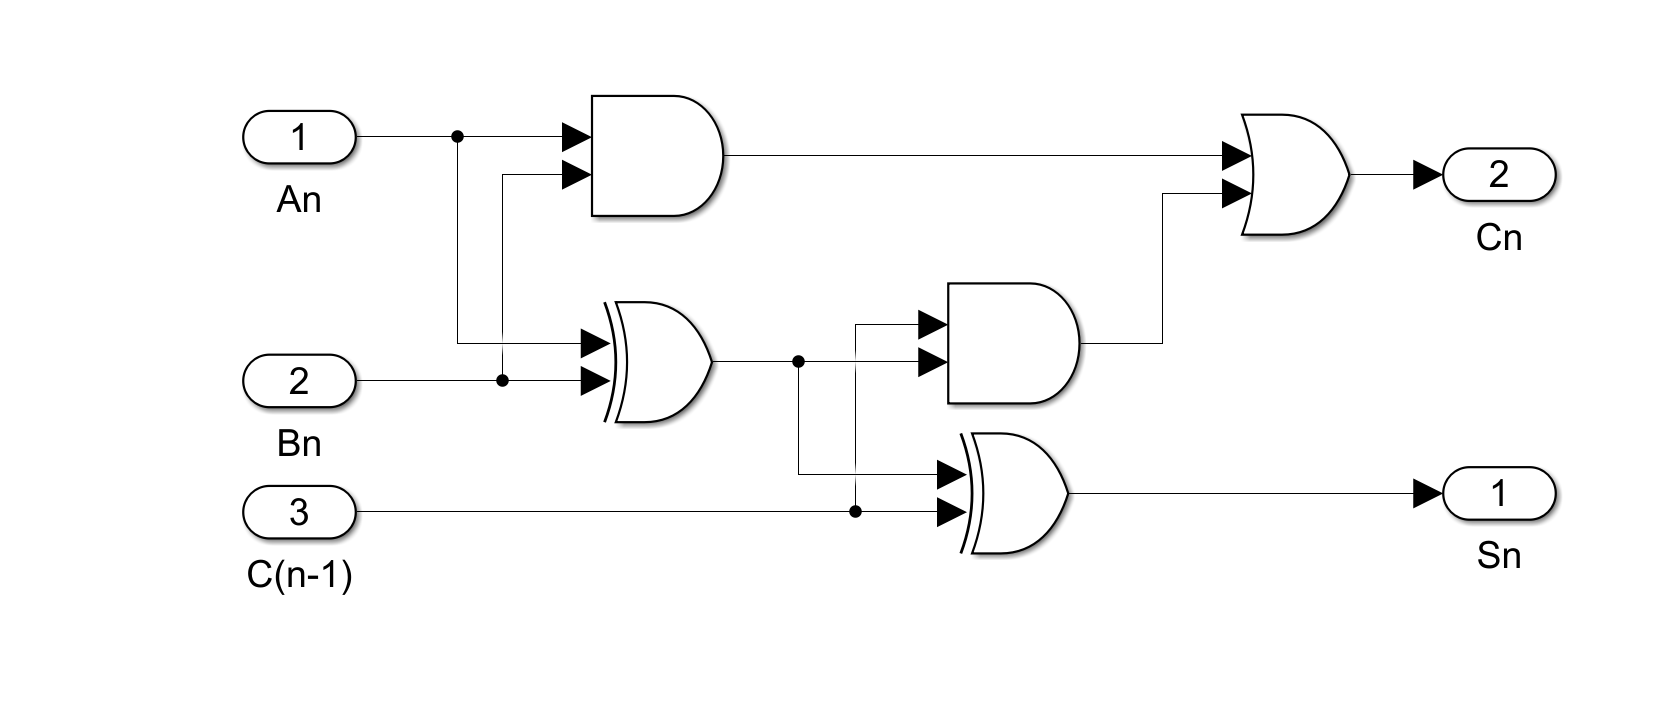
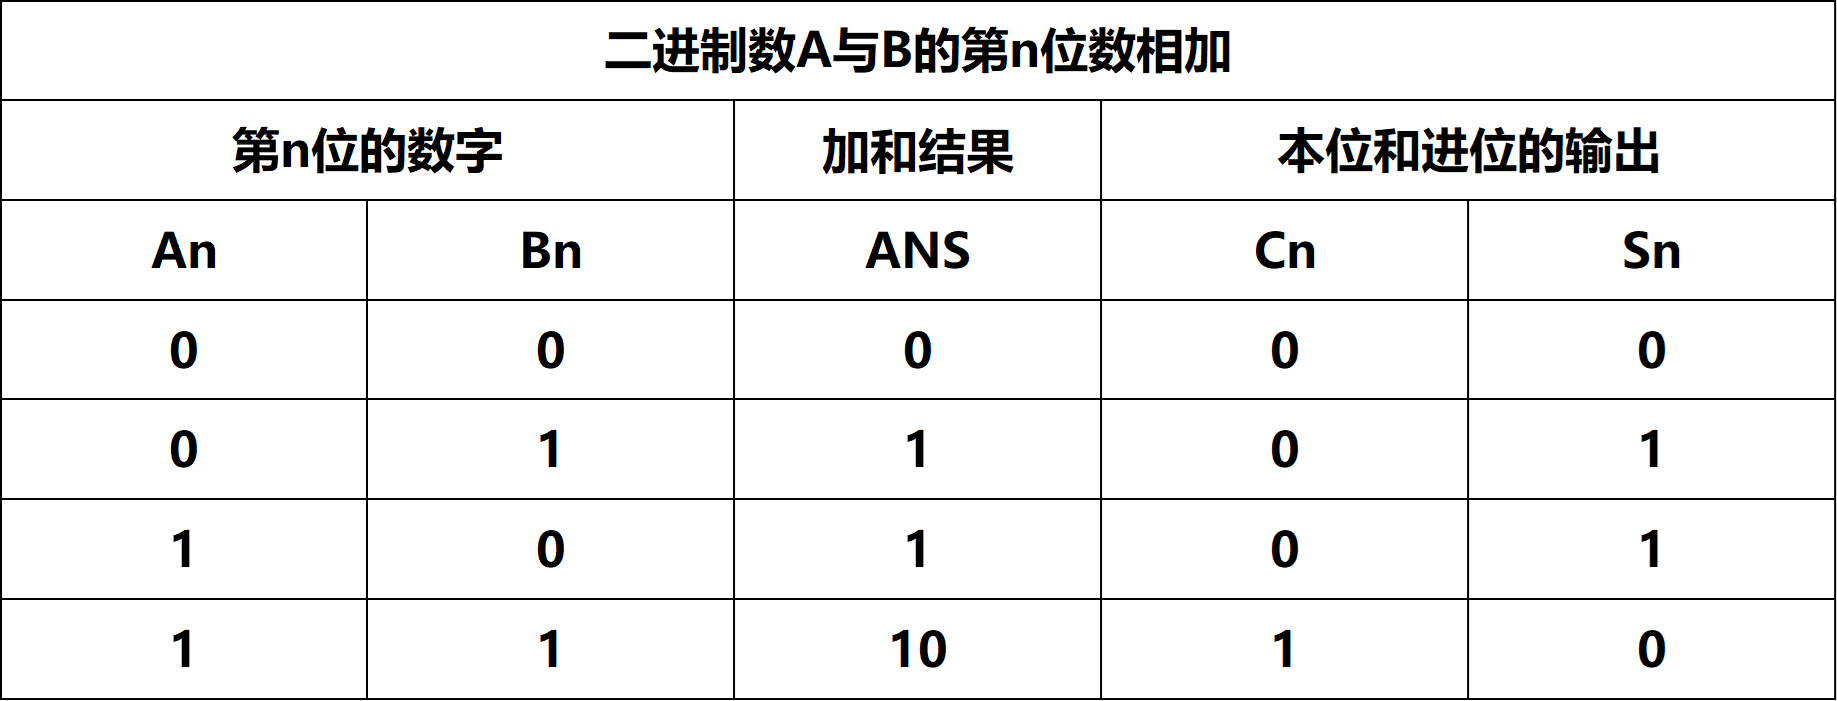
msg

diff --git a/电路组学习目录/5 简单数电＆微机原理.md b/电路组学习目录/5 简单数电＆微机原理.md
@@ -151,7 +151,7 @@ V_{IL} & \leq 0.3V_{CC}
 同或门： $S=A \odot B$ 
 - 这八种逻辑门可以在电路层面进行与上面相同的逻辑运算。
 - 逻辑运算的写法是每个逻辑门后面的逻辑式，通过逻辑式可以组合出各种各样的逻辑。
-##### 缓冲器（中继器）＆非门（反相器）
+##### 5.5.1 缓冲器（中继器）＆非门（反相器）
 - 缓冲器，又称中继器，一个输入，一个输出，输入与输出完全相同，输入0输出0，输入1输出1
 - 非门，又称反相器，一个输入，一个输出，输入与输出完全相反，输入0输出1，输入1输出0
 ![图5-5-1 缓冲器＆非门](pictures/5-5-1.png)
@@ -161,7 +161,7 @@ V_{IL} & \leq 0.3V_{CC}
 ![图5-5-3 非门真值表](pictures/5-5-3.png)
 - 输入为A，输出为S，那么A和S就满足上面的关系。
 - 缓冲器严格来说并不是一个逻辑门，只是用来作为施密特触发器整形信号用的，所以在之后的内容中将很少见。
-##### 与门&或门
+##### 5.5.2 与门&或门
 - 与门，多个输入，一个输入，所有的输入都为1时，输出为1，否则为0
 - 或门，多个输入，一个输入，任意一个输入为1时，输出为1，否则为0
 ![图5-5-4 与门&或门](pictures/5-5-4.png)
@@ -173,7 +173,7 @@ V_{IL} & \leq 0.3V_{CC}
 与门，意思就是A与B为1时为1，否则为0 \
 或门，意思就是A或B为1时为1，否则为0 \
 其他的非门，以及下面的异或门，同或门都可以从名称的角度去理解。
-##### 与非门＆或非门
+##### 5.5.3 与非门＆或非门
 - 与非门，就是一个与门前面再连接了一个非门，所有的输入都为1时，输出为0，否则为1
 - 或非门，就是一个或门前面再连接了一个非门，任意一个输入为1时，输出为0，否则为0
 ![图5-5-7 与非门&或非门](pictures/5-5-7.png)
@@ -184,7 +184,7 @@ V_{IL} & \leq 0.3V_{CC}
 - 与非门和或非门没有独立的逻辑符号，而是由或和非，与和非组合出来的逻辑式 \
 与非门： $S=\overline{A \times B}$ \
 或非门： $S=\overline{A + B}$ 
-##### 异或门＆同或门
+##### 5.5.4 异或门＆同或门
 - 异或门，当输入不相同时，输出1，否则输出0
 - 同或门，当输入都相同时，输出1，否则输出0
 ![图5-5-10 异或门&同或门](pictures/5-5-10.png)
@@ -230,11 +230,12 @@ V_{IL} & \leq 0.3V_{CC}
 译码器常用于地址译码，比如单片机给出一个地址，通过译码器选中对应的那一个存储器或外设。
 
 #### 5.7.3 加/减法器
+##### 5.7.3.1 加法器
 - 逻辑电路可以组成各种复杂的运算器，包括，加减法器，乘法器，除法器，等等，他们还分为串行/并行的，同步/异步的，具体内容十分庞大，不必深入了解，感兴趣可以去翻看数电&微机原理。
 - 这里以异步串行加/减法器为例。
 - 十进制的加法的逻辑可以总结为：计算 $A+B=S$ 时，A和B的同一位， $A_n$ 和 $B_n$ 相加，再与上一位的进位 $C_{n-1}$ 相加（如果上一位没有进位，那进位就是0），加和的结果再对10取模，得到 $S_n$ ，对10整除（舍弃小数，跟C语言的int除法一样）结果是 $C_n$ ,那么 $S_n$ 便是结果的第n位， $C_n$ 是给下一位运算的进位。从第一位开始把上面的操作逐位进行一遍，就能得到最终的结果。
 - 二进制的加法也是同理，先每一位和上一位的进位相加 $$A_{n}+B_{n}+C_{n-1}$$ 得到的两位数，个位就是这一位的最终结果 $S_{n}$ ,十位就是给下一位的进位 $C_{n}$ 。
-![图5-7-5-0 半加器真值表](pictures/5-7-5-0.png)
+![图5-7-5 半加器真值表](pictures/5-7-5.png)
 - 如果观察表格中的二进制的加法，我们会发现两个一位数加和的结果的第一位 $S_{n}$ 相当于异或的逻辑，第二位 $C_{n}$ 相当于与的逻辑。
 - 若使用数字电路实现上面的二进制加法的逻辑，便能写出下面的式子：
 - 不考虑进位时
@@ -252,12 +253,17 @@ C_{n} &= A_{n} \times B_{n} + (A_{n} \oplus B_{n}) \times C_{n-1}
 \end{aligned}
 ```
 - 根据上式，我们就能设计出一个加法器的电路，不考虑进位的我们叫做半加器，考虑进位的我们叫做全加器。
-![图5-7-5 全加器](pictures/5-7-5.png)
+![图5-7-6 全加器](pictures/5-7-6.png)
 - 半加器只是推导出全加器的公式的中间形态，最终的加法器是由全加器组成的。
 - 每一个全加器都能完成二进制加法中某一位的运算，所以将若干个全加器逐级连接起来，就形成了一个二进制的加法器，连接几个全加器，就是几位数的加法器，如下图就是一个八位数的加法器，可以计算两个八位二进制数相加的结果。
-![图5-7-5-1 加法器](pictures/5-7-5-1.png)
+![图5-7-7 加法器](pictures/5-7-7.png)
 - 我们可以像下图一样级联我们的加法器，就可以得到更多位数的加法器。
-![图5-7-5-2 加法器的级联](pictures/5-7-5-2.png)
+![图5-7-8 加法器的级联](pictures/5-7-8.png)
+##### 5.7.3.2 减法器
+![图5-7-9 减法器](pictures/5-7-9.png)
+##### 5.7.3.3 加/减法器
+![图5-7-10 求补器](pictures/5-7-10.png)
+![图5-7-11 加/减法器](pictures/5-7-11.png)
 ### 5.8 时序逻辑
 
 ![图5-8-1 时钟信号](pictures/5-8-1.png)
